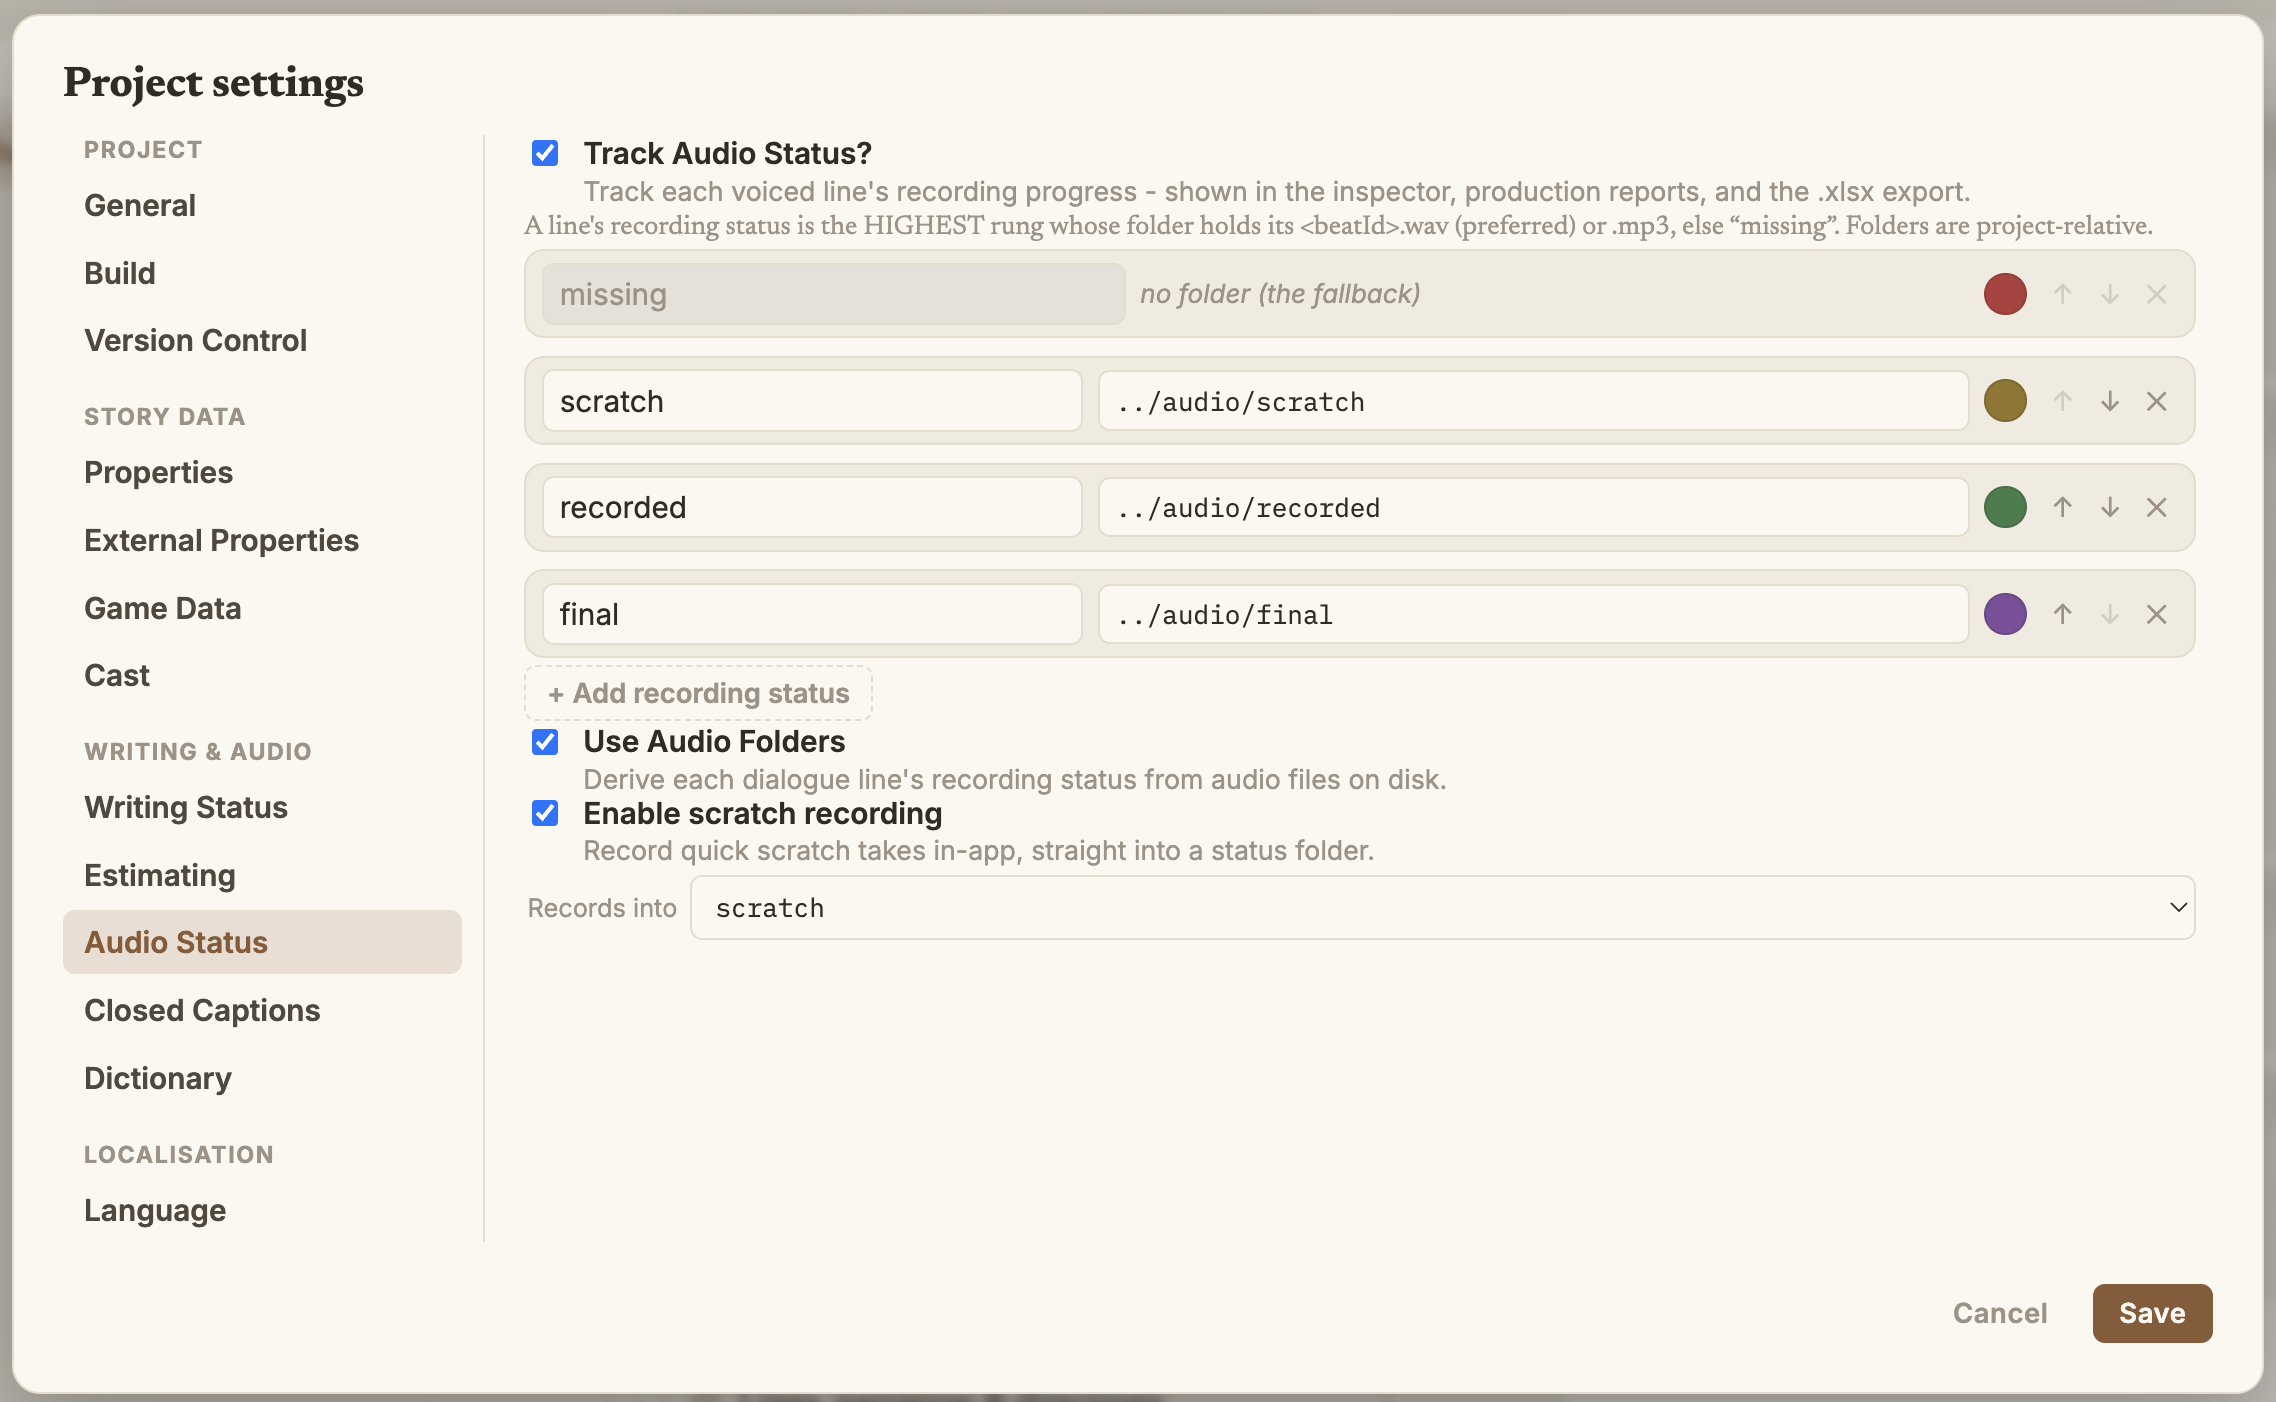
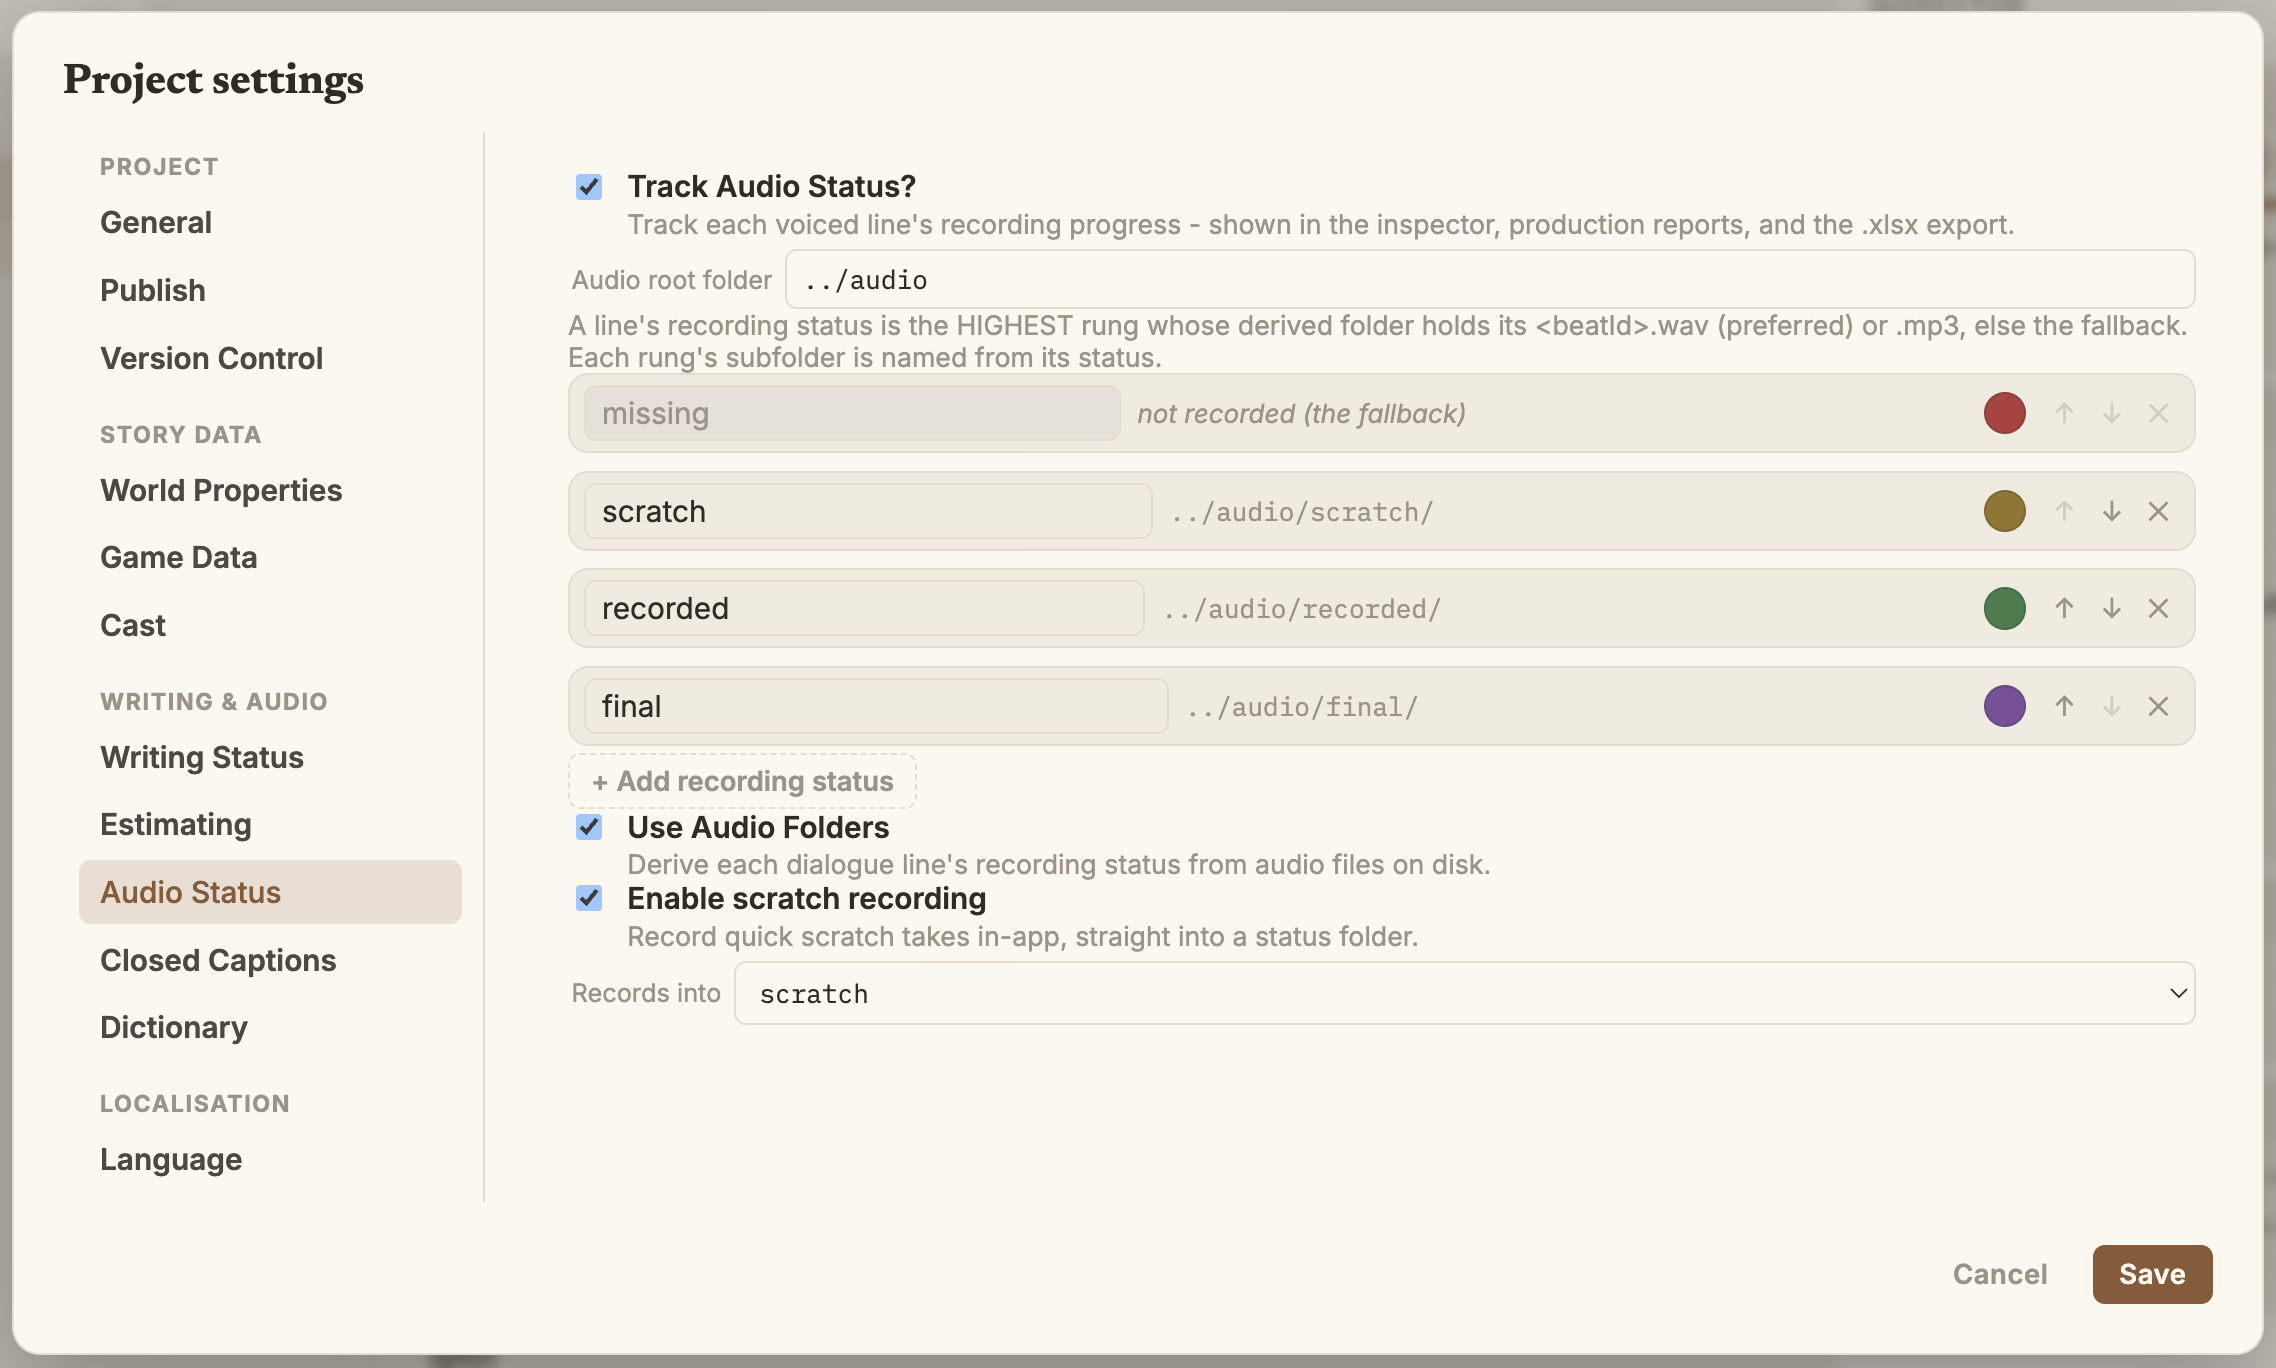
docs: retake the two stale screenshots
Both from the current build, on a pristine copy of the shipped tour so the
shots show what a reader actually gets - and with the tour's sibling audio
folder alongside it, or the inspector's Audio row reads "missing" and the
picture teaches a fault.

ThreeColumns (the hero on the landing page and the workspace shot) gains what
it was missing: the Properties page at the top of the navigator, the back and
forward arrows in the top bar, and the open scene's blocks listed under it.
Same size as the one it replaces, 1468x817 at 2x, same theme, same line
selected so the Inspector reads Line / Snippet / Block / Scene as before.

ProjectSettings was stale three ways, two of them older than this week's
work: the tab list showed Properties (now its own page), Build (now Publish)
and External Properties (now World Properties). The new one also shows the
audio root folder and derived subfolders, which the old shot predated.

Alt text and captions follow the pictures rather than describing the old
ones. The site builds.

diff --git a/website/src/content/docs/patterpad/overview.md b/website/src/content/docs/patterpad/overview.md
@@ -105,8 +105,8 @@ version-control system.
 ## The workspace
 
 <figure class="doc-shot">
-  <img src="/doc-images/ThreeColumns.png" alt="The Patterpad workspace: a Scenes navigator on the left, the script surface in the centre showing dialogue snippets for The Patter Tour, and the Inspector on the right." />
-  <figcaption>The three-column workspace: the Scenes navigator (left), the script surface (centre), and the Inspector (right). The script stays put; the side panes are guests you toggle with <code>⌘1</code> and <code>⌘2</code>.</figcaption>
+  <img src="/doc-images/ThreeColumns.png" alt="The Patterpad workspace: a navigator on the left holding a Properties page and the scene list with its blocks, the script surface in the centre showing dialogue snippets for The Patter Tour, and the Inspector on the right showing the selected line's writing status, audio status and character. Back and forward arrows sit in the top bar." />
+  <figcaption>The three-column workspace: the navigator (left, with the Properties page above the scenes), the script surface (centre), and the Inspector (right). The script stays put; the side panes are guests you toggle with <code>⌘1</code> and <code>⌘2</code>.</figcaption>
 </figure>
 
 Three columns, with the script always in the centre:

diff --git a/website/src/content/docs/patterpad/projects-and-settings.md b/website/src/content/docs/patterpad/projects-and-settings.md
@@ -10,7 +10,7 @@ sidebar:
 **File ▸ Project Settings…** (`⌘,`) opens a tabbed dialog:
 
 <figure class="doc-shot">
-  <img src="/doc-images/ProjectSettings.png" alt="The Project settings dialog: a grouped tab list on the left (Project, Story data, Writing and audio, Localisation) with the Audio Status tab open, showing a Track Audio Status switch, a ladder of recording-status folders, and Use Audio Folders and scratch-recording options." />
+  <img src="/doc-images/ProjectSettings.png" alt="The Project settings dialog: a grouped tab list on the left (Project, Story data, Writing and audio, Localisation) with the Audio Status tab open, showing a Track Audio Status switch, an audio root folder, a ladder of recording-status folders, and Use Audio Folders and scratch-recording options." />
   <figcaption>Project settings, with tabs grouped down the left (Project / Story data / Writing &amp; audio / Localisation). The <strong>Audio Status</strong> tab is shown here, mapping each recording stage to a folder on disk.</figcaption>
 </figure>
 
